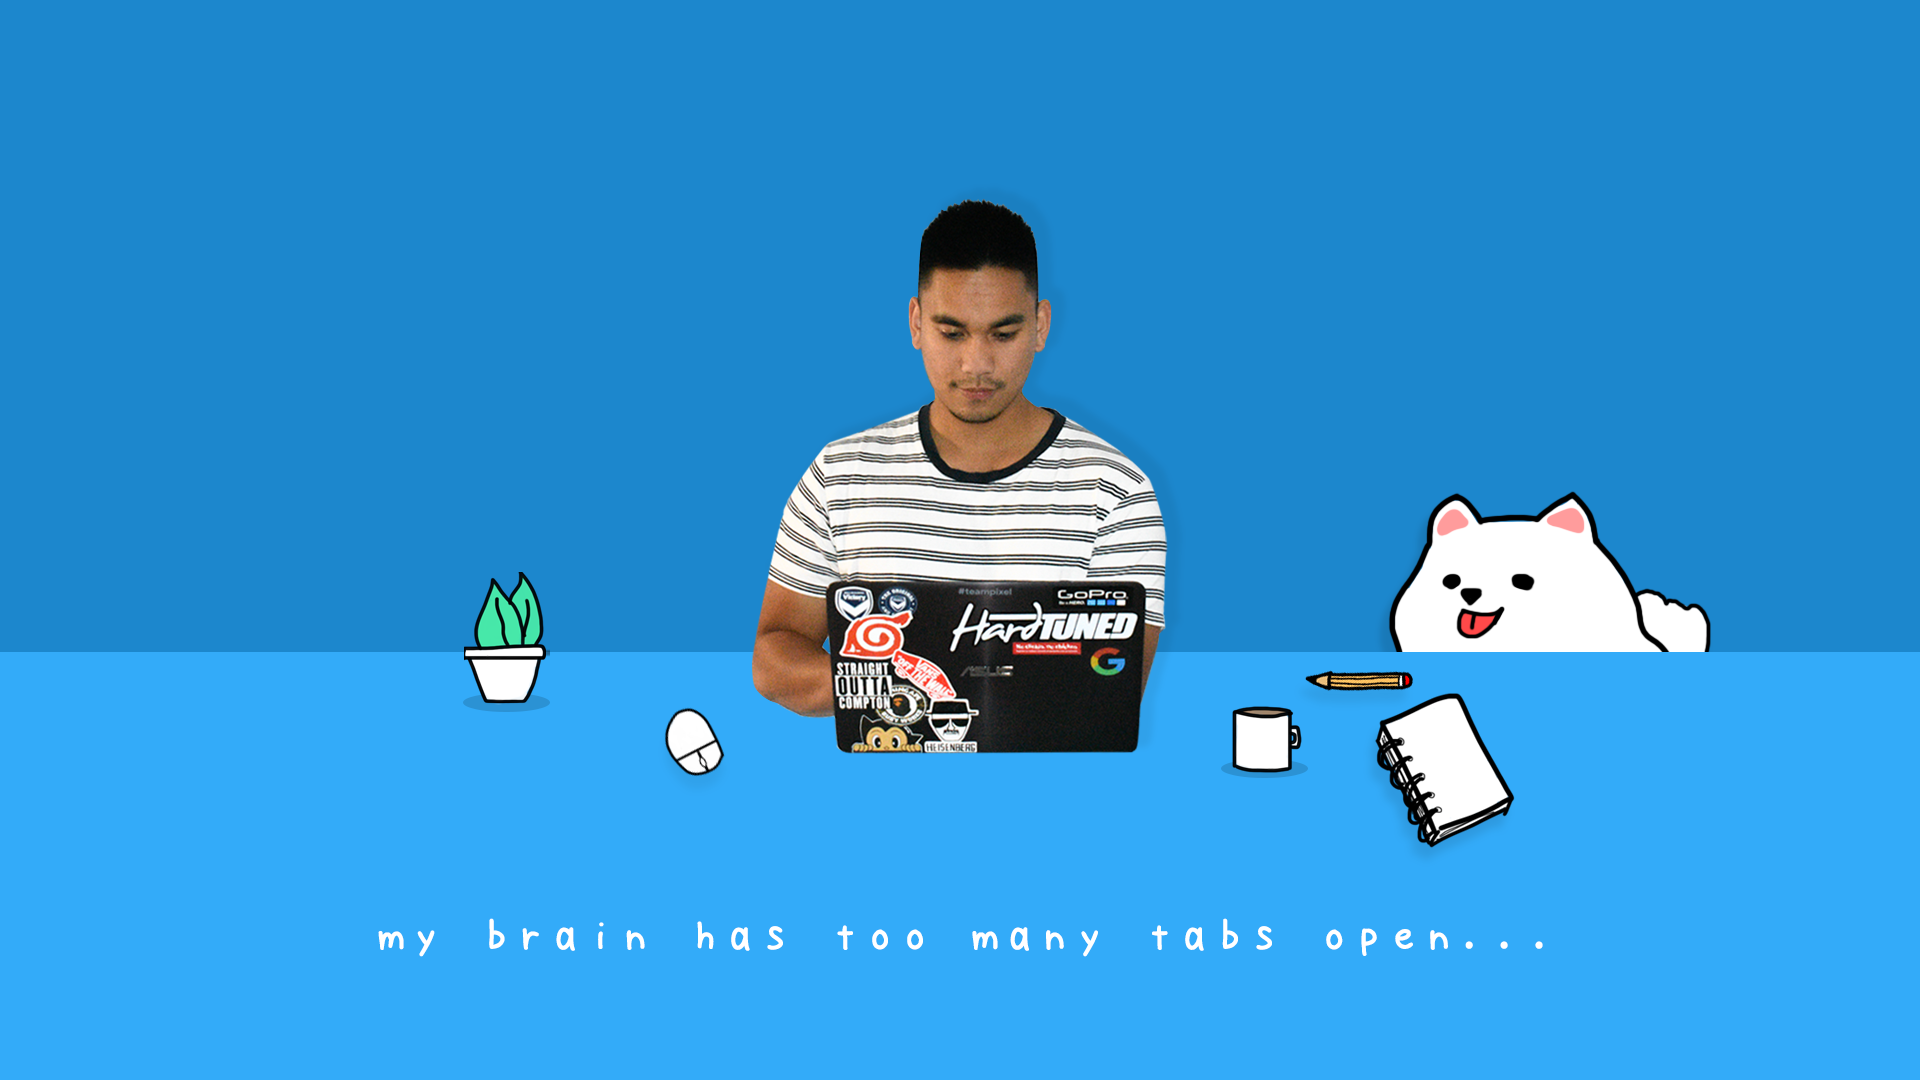
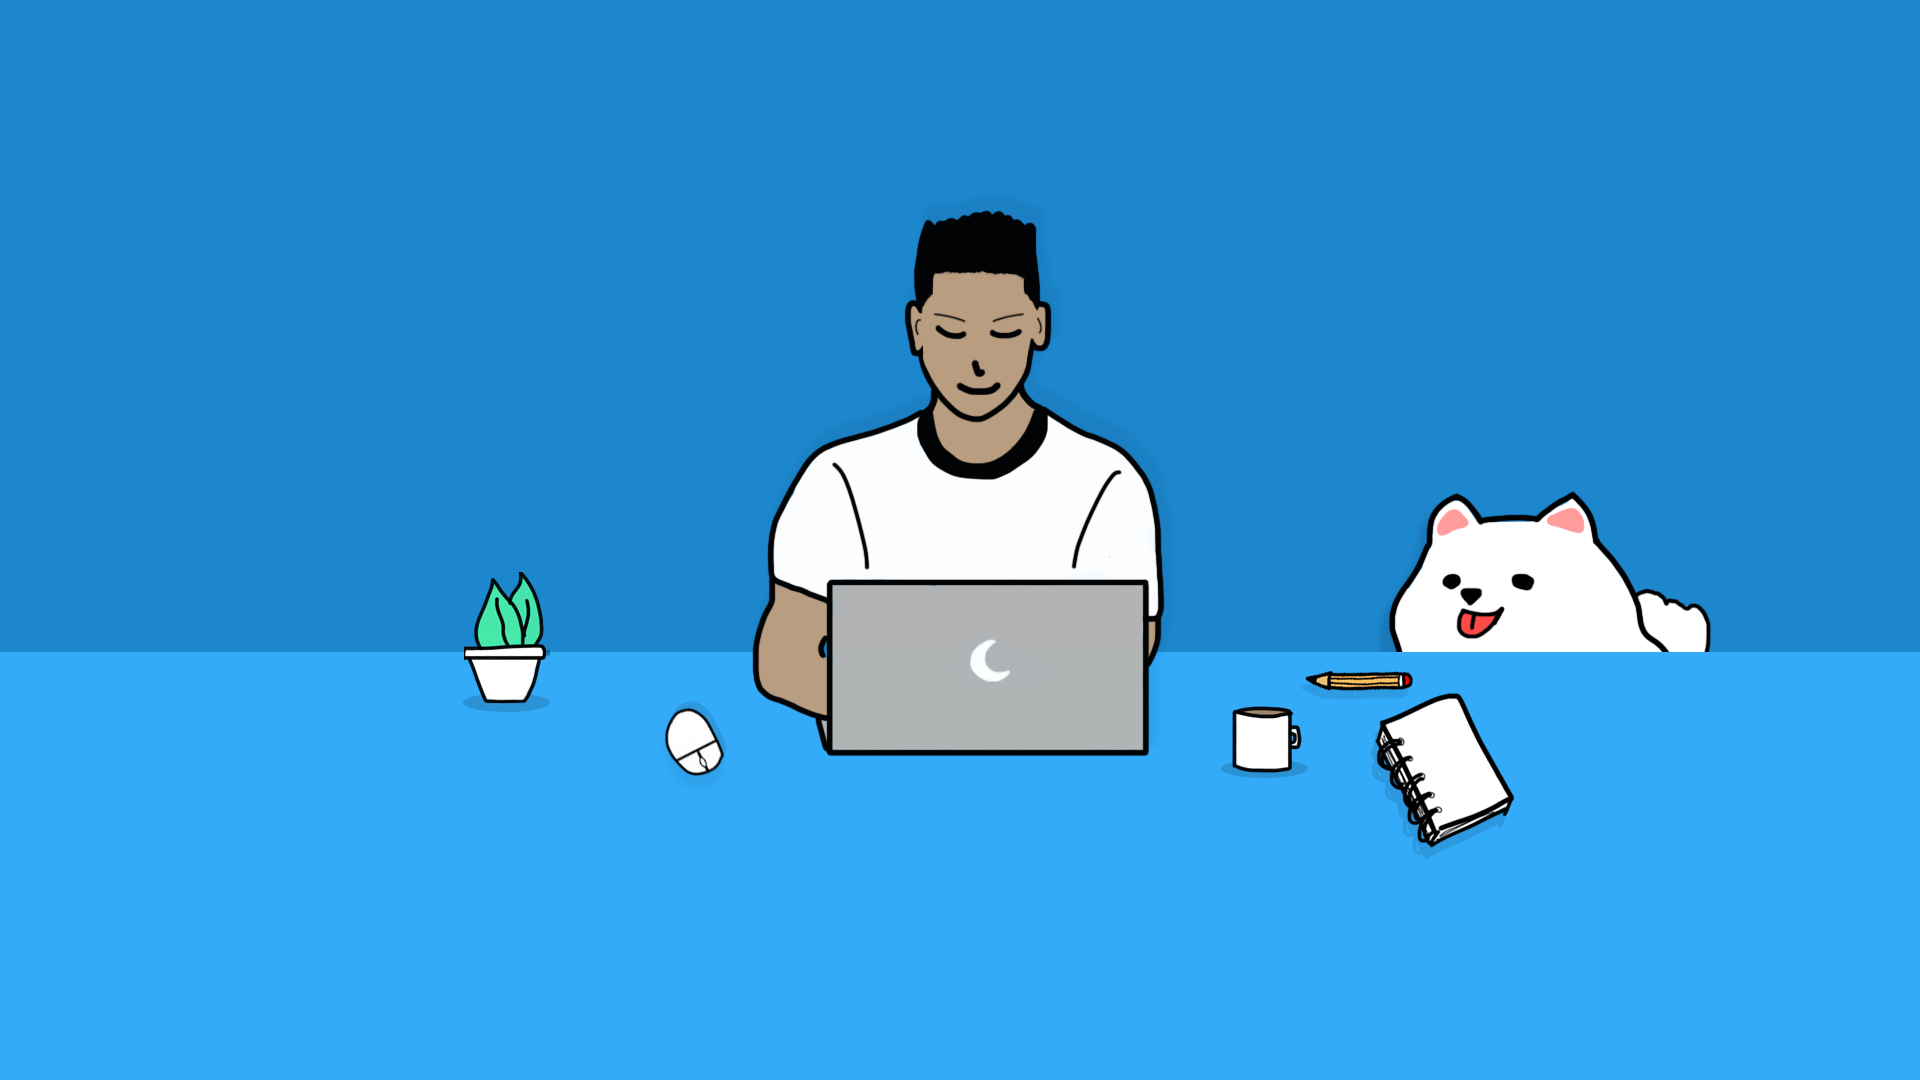
cover photo edited, about page removed, resume page started

diff --git a/style.css b/style.css
@@ -92,9 +92,82 @@ body {
     height: 100%;
 }
 
+picture {
+    width: auto;
+    max-width: 100%;
+    height: 100%;
+}
+
 .cover_photo_raw {
     width: 100%;
     height: 100%;
+}
+
+.quote, .quote2 {
+    position: absolute;
+    top: 50px;
+    left: 50%;
+    transform: translate(-50%, -50%);
+    font-size: 40px;
+}
+
+.quote2 {
+    position: absolute;
+    top: 100px;
+    left: 50%;
+    transform: translate(-50%, -50%);
+    font-size: 20px;
+    display: none;
+}
+
+picture .quote {
+    color: #fff;
+    font-family: monospace;
+    overflow: hidden; /* Ensures the content is not revealed until the animation */
+    border-right: .15em solid orange; /* The typwriter cursor */
+    white-space: nowrap; /* Keeps the content on a single line */
+    margin: 0 auto; /* Gives that scrolling effect as the typing happens */
+    letter-spacing: .15em; /* Adjust as needed */
+    animation: 
+      typing 4.5s steps(30, end),
+      blink-caret .5s step-end infinite;
+}
+
+picture .quote2 {
+    color: #fff;
+    font-family: monospace;
+    overflow: hidden; /* Ensures the content is not revealed until the animation */
+    border-right: .10em solid orange; /* The typwriter cursor */
+    white-space: nowrap; /* Keeps the content on a single line */
+    margin: 0 auto; /* Gives that scrolling effect as the typing happens */
+    letter-spacing: .10em; /* Adjust as needed */
+    animation: 
+      typing2 3s steps(30, end),
+      blink-caret .5s step-end infinite;
+}
+
+@keyframes typing {
+    from { width: 0 }
+    to { width: 50% }
+}
+@keyframes typing2 {
+    from { width: 0 }
+    to { width: 90% }
+}
+  
+  /* The typewriter cursor effect */
+@keyframes blink-caret {
+    from, to { border-color: transparent }
+    50% { border-color: orange }
+}
+
+@media only screen and (max-width: 1026px) {
+    .quote {
+        display: none;
+    }
+    .quote2 {
+        display: block;
+    }
 }
 /*Cover Photo End*/
 
@@ -212,11 +285,10 @@ h2 > .fa-github {
     text-align: center;
 }
 .Grid-cell {
-    background-color: white;
-    margin: 0;
+    background-color: #33ABF9;
 }
 .Grid-cell a {
-    background-color: white;
+    background-color: #33ABF9;
     margin: 0;
     text-decoration: none;
 }                      
@@ -290,59 +362,126 @@ h2 > .fa-github {
 /*Footer End*/
 
 /*-----------------------------------------*/
-/*--------------About Me Page--------------*/
+/*---------------Resume Page---------------*/
 /*-----------------------------------------*/
-.about {
-    width: 100%;
-    height: 100%;
+.about_me {
+    width: 80%;
+    height: 50vh;
+    background-color: white;
+    margin-top: 50px;
     display: flex;
-    flex-direction: column;
-    justify-content: center;
-    align-items: center;
-    background-color: #33ABF9;
-    color: white;
-    padding-top: 50px;
-    padding-bottom: 50px;
 }
 
-#profile_photo_container {
-    padding-top: 50px;
-}
-#profile_photo_raw {
+.container {
+    width: 80%;
+    padding: 50px 0;
+    margin: 50px auto;
+    position: relative;
+    overflow: hidden;
+ }
+ 
+ .container:before {
+    content: '';
+    position: absolute;
+    top: 0;
+    left: 50%;
+    margin-left: -1px;
+    width: 2px;
     height: 100%;
-    width: 100%;
-}
-.summary {
-    font-size:32px;
-}
-.more {
-    font-size: 20px;
-    text-align: left;
-    padding-left: 30px;
-    padding-right: 30px;
-}
+    background: #CCD1D9;
+    z-index: 1
+ }
+ 
+ .timeline-block {
+    width: -webkit-calc(50% + 8px);
+    width: -moz-calc(50% + 8px);
+    width: calc(50% + 8px);
+    display: -webkit-box;
+    display: -webkit-flex;
+    display: -moz-box;
+    display: flex;
+    -webkit-box-pack: justify;
+    -webkit-justify-content: space-between;
+    -moz-box-pack: justify;
+    justify-content: space-between;
+    clear: both;
+ }
+ 
+ .timeline-block-right {
+    float: right;
+ }
+ 
+ .timeline-block-left {
+    float: left;
+    direction: rtl
+ }
+ 
+ .marker {
+    width: 16px;
+    height: 16px;
+    border-radius: 50%;
+    border: 2px solid #F5F7FA;
+    background: #4FC1E9;
+    margin-top: 10px;
+    z-index: 9999
+ }
+ 
+ .timeline-content {
+    width: 90%;
+    padding: 0 15px;
+    color: black;
+    background-color: white;
+    margin: 10px;
+    -webkit-box-shadow: 10px 10px 5px -7px rgba(107,103,107,1);
+    -moz-box-shadow: 10px 10px 5px -7px rgba(107,103,107,1);
+    box-shadow: 10px 10px 5px -7px rgba(107,103,107,1);
+ }
+ 
+ .timeline-content h3 {
+    margin-top: 5px;
+    margin-bottom: 5px;
+    font-size: 25px;
+    font-weight: 500
+ }
+ 
+ .timeline-content div{
+    font-size: 15px;
+    color: black;
+    margin-top: 5px;
+    margin-bottom: 5px;
+ }
 
-mark.yellow {
-    color:#ffe600;
-    background: none;
-}
+ .logo_container {
+    width: auto;
+    max-width: 100%;
+    height: 100%;
+ }
 
-mark.green {
-    color:#70ffb1;
-    background: none;
-}
-
-mark.purple {
-    color:#b55ef0;
-    background: none;
-}
-
-mark.orange {
-    color:#eb492d;
-    background: none;
-}
-
-
+ .logo_raw {
+    width: 600px;
+    height: 200px;
+ }
+ 
+ @media screen and (max-width: 768px) {
+    .container:before {
+       left: 8px;
+       width: 2px;
+    }
+    .timeline-block {
+       width: 100%;
+       margin-bottom: 30px;
+    }
+    .timeline-block-right {
+       float: none;
+    }
+ 
+    .timeline-block-left {
+       float: none;
+       direction: ltr;
+    }
+ }
+ 
+/*Resume End*/
 
 /*-----------------------------------------*/
 /*--------------Message Modal--------------*/

diff --git a/resume.php b/resume.php
@@ -1,0 +1,58 @@
+<!DOCTYPE html>
+<html lang="en">
+<?php include("modules/head.php");?>
+
+<body>
+    <?php include("modules/navbar.php");?>
+
+    <div class="flex-container">
+
+        <div class="about_me">
+
+        </div>
+
+        <h1>Work Experience and Education</h1>
+        <div class="container">
+
+            <div class="timeline-block timeline-block-right">
+                <div class="marker"></div>
+                <div class="timeline-content">
+                    <h2>2018 - Present</h2>
+                    <img src="images/dowell_logo.png">
+                    <div class="title">Junior Website Application Developer</div>
+                    <div class="place">Dowell Windows</div>
+                </div>
+            </div>
+
+            <div class="timeline-block timeline-block-left">
+                <div class="marker"></div>
+                <div class="timeline-content">
+                    <h2>2014-2017</h2>
+                    <img src="images/rmit_logo.jpg">
+                    <div class="title">Bachelor of Information Technology</div>
+                    <div class="place">RMIT University</div>
+                </div>
+            </div>
+
+            <div class="timeline-block timeline-block-right">
+                <div class="marker"></div>
+                <div class="timeline-content">
+                    <h2>2009-2013</h2>
+                    <img src="images/bsc_logo.jpg">
+                    <div class="title">VCE</div>
+                    <div class="place">Brentwood Secondary College</div>
+                </div>
+            </div>
+        </div>
+
+
+
+        <?php include("modules/footer.php");?>
+
+    </div>
+
+    <?php include("modules/scripts.php");?>
+
+</body>
+
+</html>

diff --git a/index.php b/index.php
@@ -14,9 +14,18 @@
         <!-- Cover Photo Container-->
         <!-- The landing page section of the website-->
         <div class="cover_photo">
-            <div class="cover_photo_container">
+            <!-- <div class="cover_photo_container">
                 <img class="cover_photo_raw" src="images/cover_photo.png" alt="Andrew Auxilio Cover Photo">
-            </div>
+            </div> -->
+
+            <picture>
+                <source class="cover_photo_raw" media="(min-width: 900px)" srcset="images/cover_photo.png">
+                <source class="cover_photo_raw" media="(max-width: 800px)" srcset="images/cover_photo_small.png">
+                <img class="cover_photo_raw" src="images/cover_photo.png" alt="IfItDoesntMatchAnyMedia">
+                <p class="quote">my brain has too many tabs open...</p>
+                <p class="quote2">my brain has too many tabs open...</p>
+            </picture>
+            
         </div>
 
         <!-- Summary Container-->

diff --git a/modules/navbar.php b/modules/navbar.php
@@ -1,5 +1,5 @@
 <!-- navbar module-->
 <div class="navbar">
-    <a href="about.php">About</a>
+    <a href="resume.php">Resume</a>
     <a href="index.php">Home</a>
 </div>
